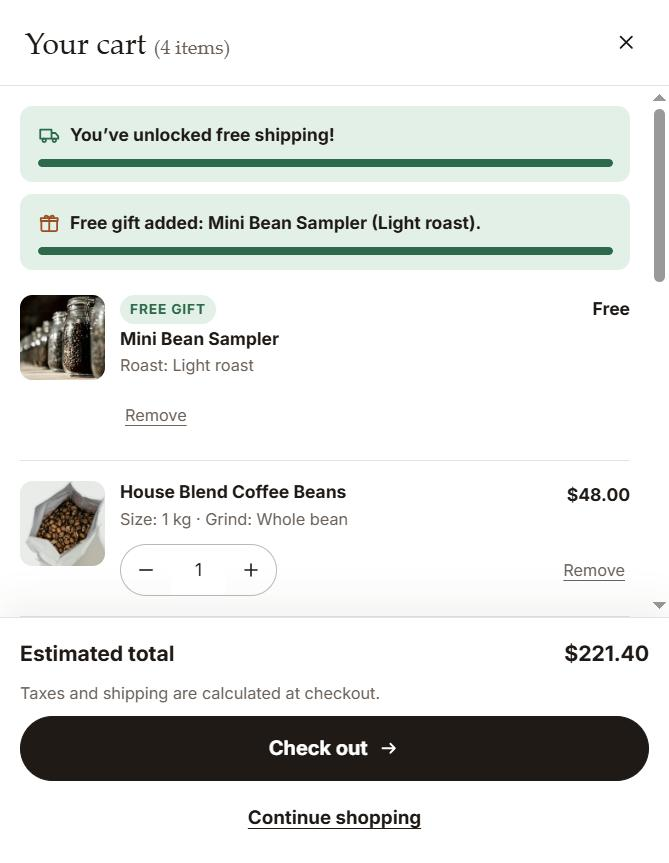
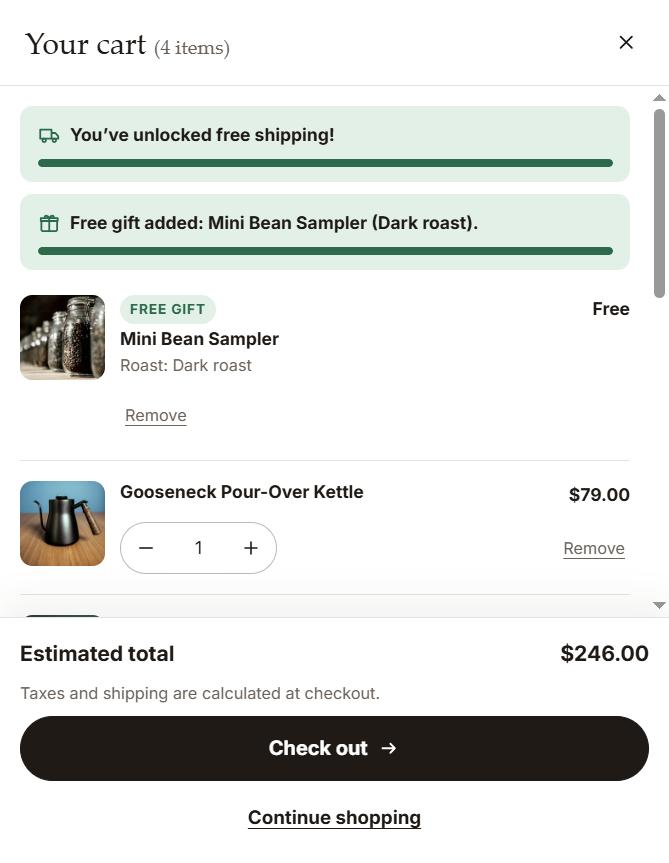
README: live screenshots for the Advanced AJAX Cart

diff --git a/README.md b/README.md
@@ -53,7 +53,11 @@ A coffee shop ("Brew Bar") built to show a complete AJAX cart experience. Every 
 from Shopify's cart JSON — nothing is simulated in the browser.
 
 <p>
+  <img src="docs/screenshots/advanced-cart-page.jpg" alt="Brew Bar demo page with offer hints, a View cart button and product cards" width="45%">
   <img src="docs/screenshots/advanced-cart-drawer.jpg" alt="Cart drawer with free shipping unlocked, the free gift added, line items and the sticky checkout area" width="45%">
+</p>
+<p>
+  <img src="docs/screenshots/advanced-cart-upsells.jpg" alt="Cart drawer with the BREW10 code applied, the discount in the totals and Pairs well with suggestions" width="45%">
   <img src="docs/screenshots/advanced-cart-fbt.jpg" alt="Frequently bought together: four products with checkboxes, variant pickers and a combined price" width="45%">
 </p>
 
